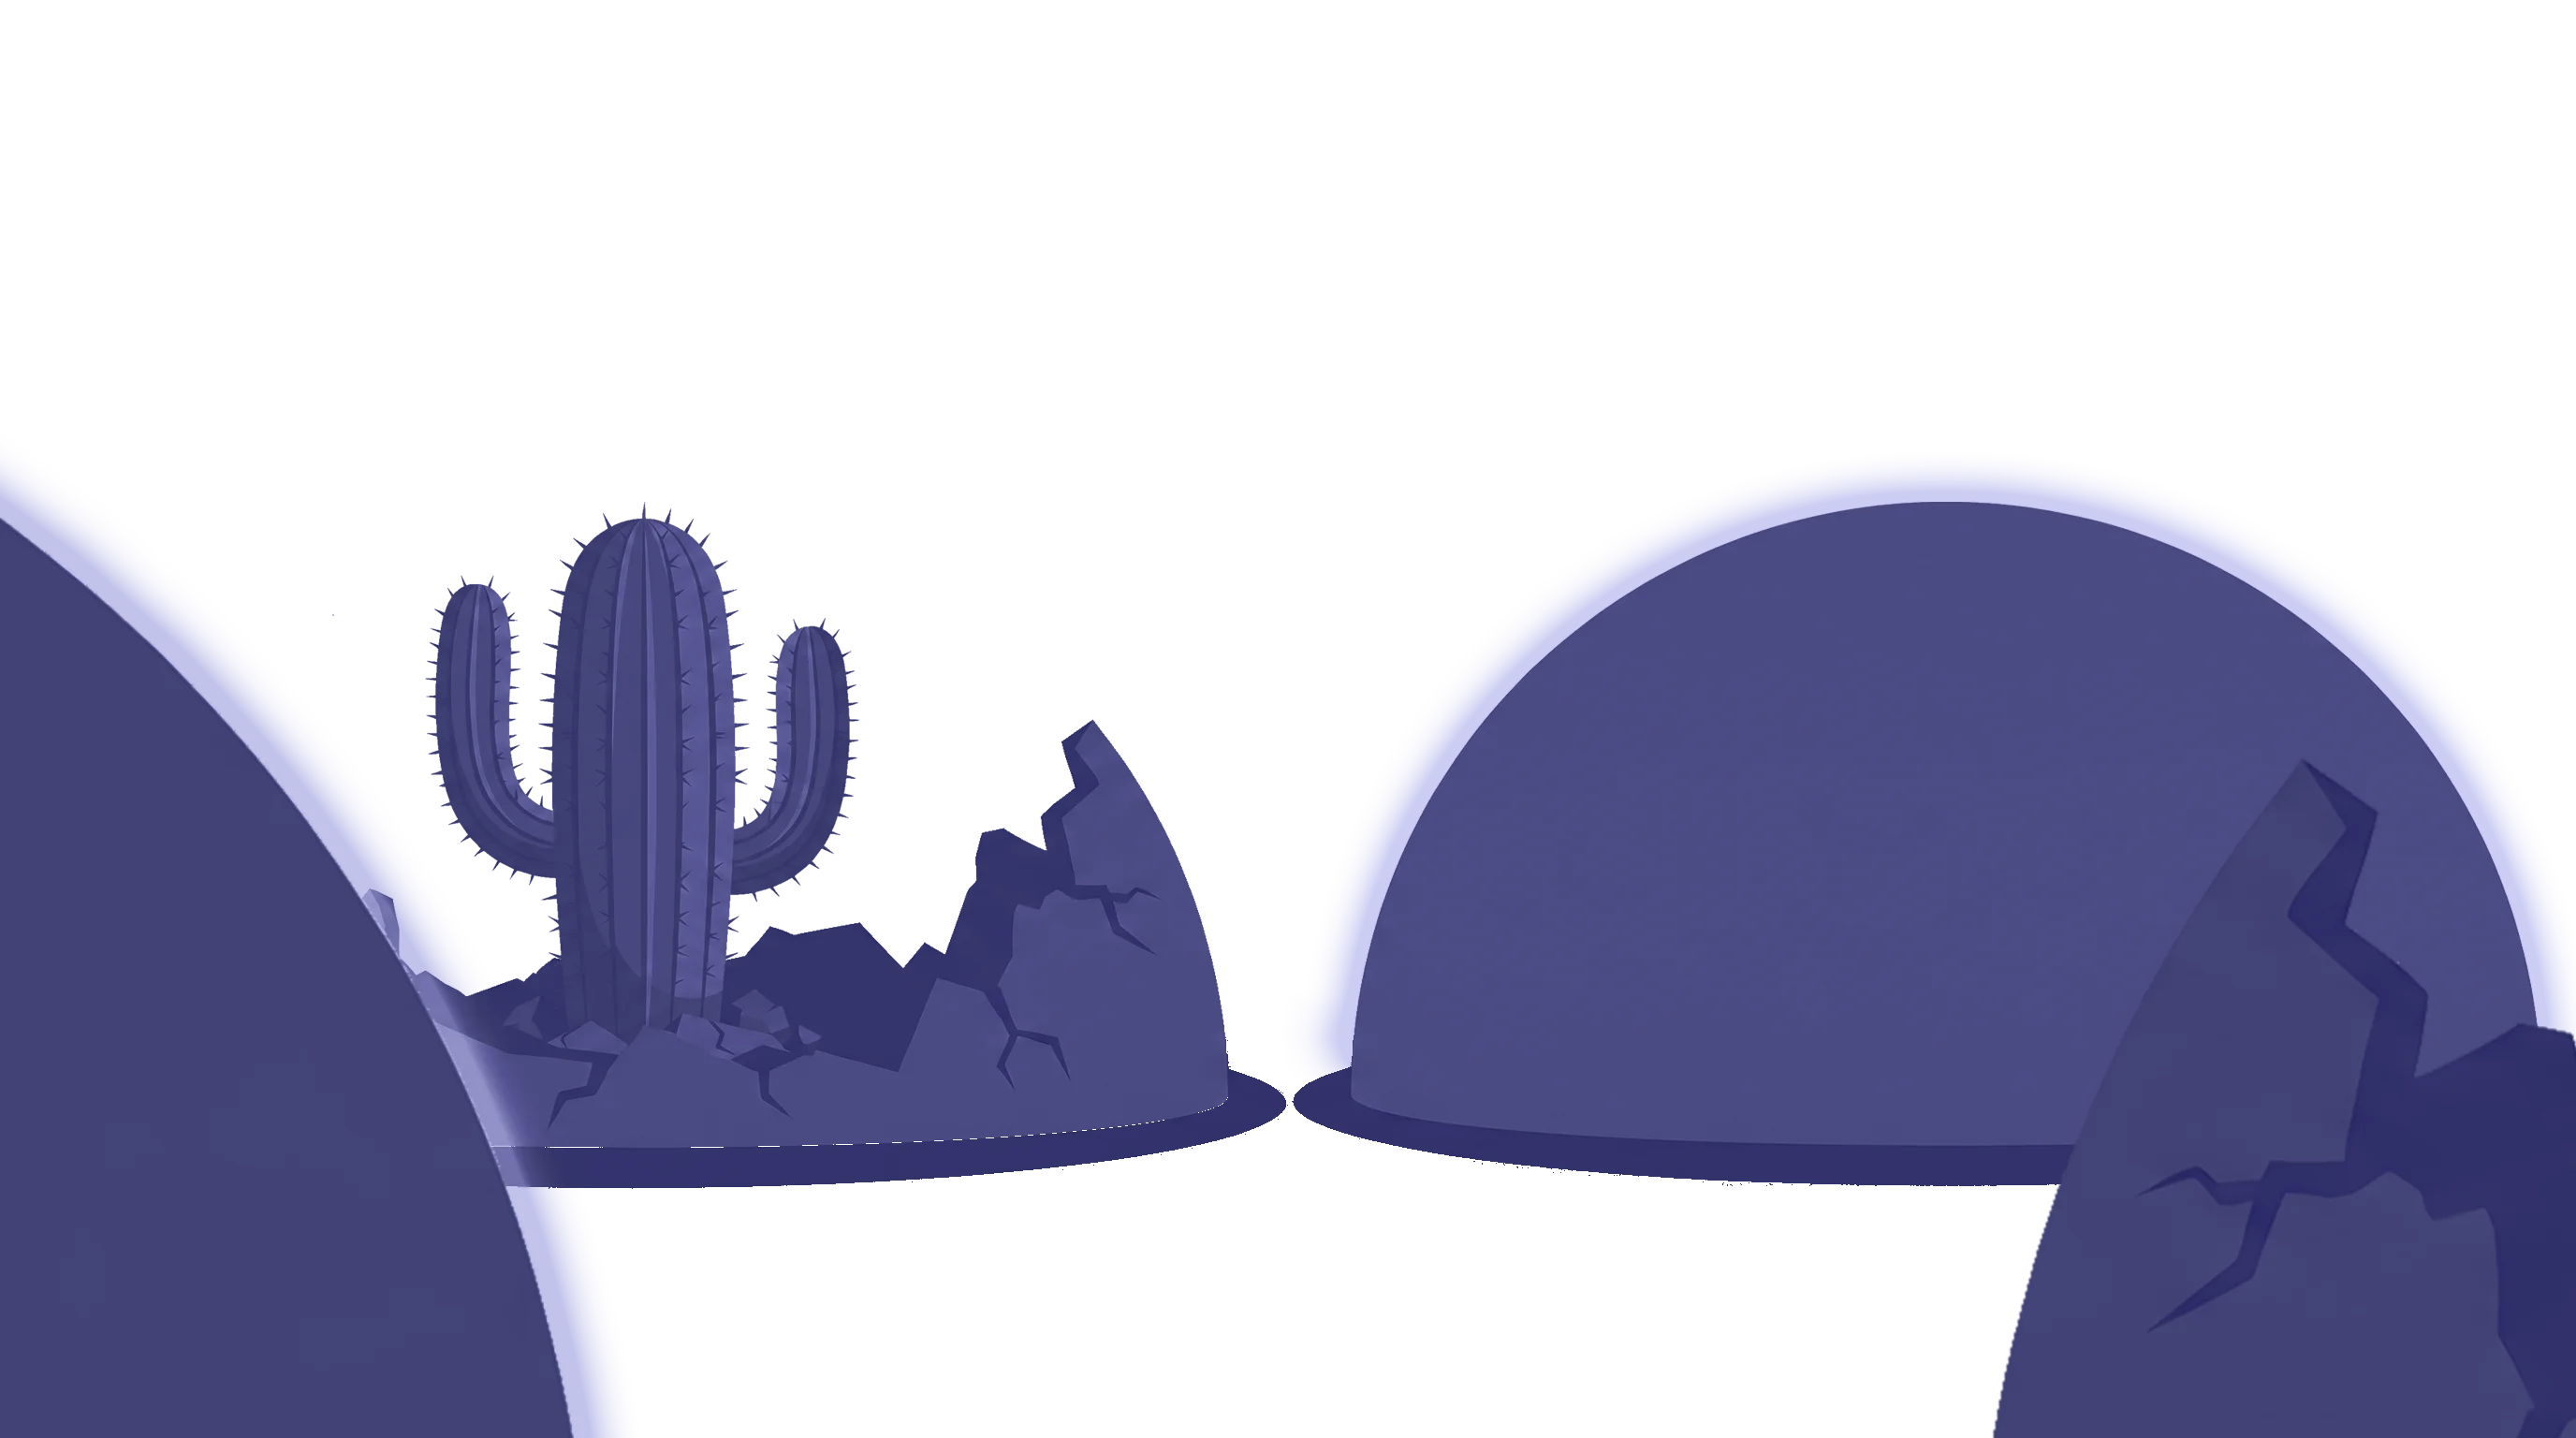
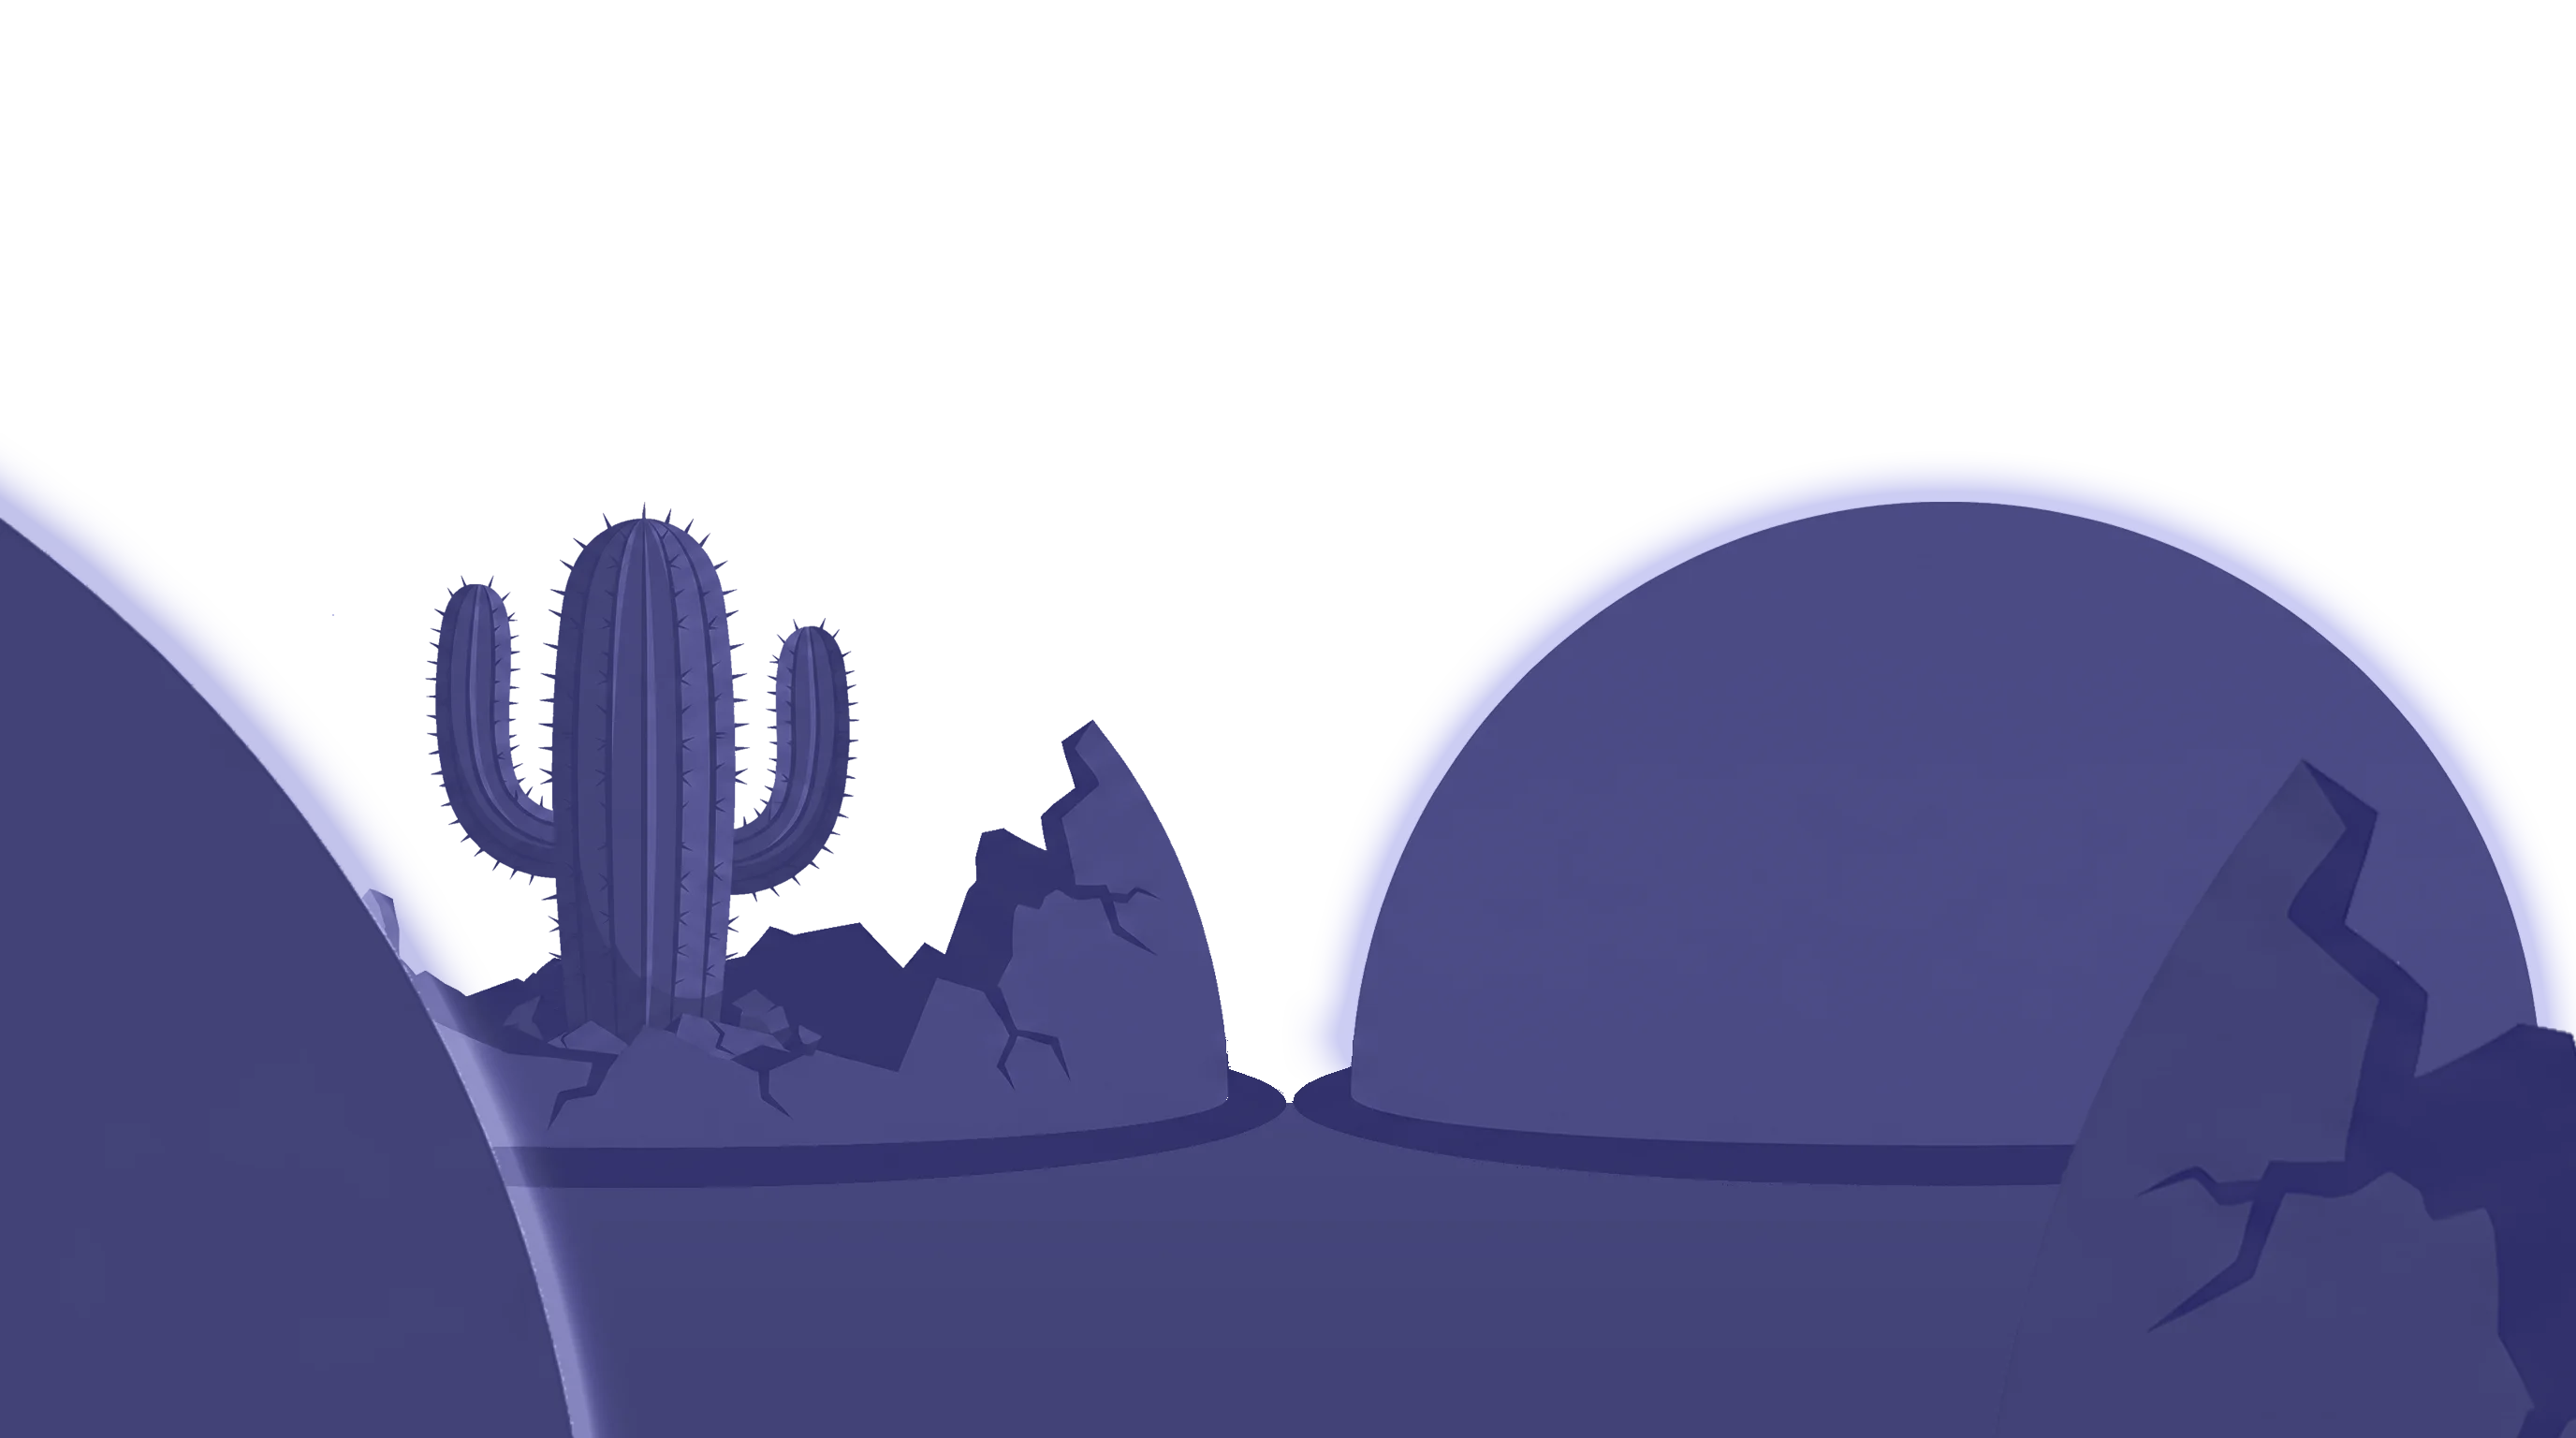
Refactor particle engine for High-DPI support, fix radial underglow clipping path, and optimize dispersion parameters

Changed region(s): [[0.1875, 0.7812, 0.8125, 1.0]]

diff --git a/js/sparkle.js b/js/sparkle.js
@@ -1,11 +1,22 @@
 class SparkleSystem {
-    constructor(canvasId) {
-        this.canvas = document.getElementById(canvasId);
+    constructor(canvasOrId) {
+        if (typeof canvasOrId === 'string') {
+            this.canvas = document.getElementById(canvasOrId);
+        } else {
+            this.canvas = canvasOrId;
+        }
         if (!this.canvas) return;
         this.ctx = this.canvas.getContext('2d');
         this.particles = [];
         this.lastTime = performance.now();
         
+        // Depth/Scale factor (defaults to 1.0, clamped to min 0.1 for safety)
+        this.depth = Math.max(0.1, this.canvas.dataset.depth ? parseFloat(this.canvas.dataset.depth) : 1.0);
+        
+        // Bubble boundary radius — override via data-radius="0.36" (fraction of screen height)
+        this.radiusNormalized = this.canvas.dataset.radius ? parseFloat(this.canvas.dataset.radius) : 0.0;
+        this.bubbleRadius = 0;
+
         // Spot colour — override via data-spot-color="r,g,b" (e.g. "255,100,200")
         // Default is glowing gold: 255,215,0
         this.spotColorRGB = this.canvas.dataset.spotColor || '255,215,0';
@@ -17,7 +28,14 @@ class SparkleSystem {
         this.originY = 0;
         
         this.spawnTimer = 0;
-        this.spawnRate = 0.05; // very fast spawn for a glowing halo
+        
+        // Scale spawn rate by depth (fewer particles spawned when further in the background)
+        const baseSpawnRate = this.canvas.dataset.spawnRate ? parseFloat(this.canvas.dataset.spawnRate) : 0.05;
+        this.spawnRate = baseSpawnRate / this.depth;
+
+        // Visual width/height (CSS pixels)
+        this.width = 0;
+        this.height = 0;
 
         this.resize();
         window.addEventListener('resize', () => this.resize());
@@ -46,10 +64,17 @@ class SparkleSystem {
     }
 
     resize() {
+        const dpr = window.devicePixelRatio || 1;
         const w = this.canvas.clientWidth || window.innerWidth;
         const h = this.canvas.clientHeight || window.innerHeight;
-        this.canvas.width = w;
-        this.canvas.height = h;
+        
+        this.width = w;
+        this.height = h;
+        
+        this.canvas.width = w * dpr;
+        this.canvas.height = h * dpr;
+        
+        this.ctx.scale(dpr, dpr);
         
         const bounds = this.getCoverBounds(w, h);
         
@@ -58,44 +83,58 @@ class SparkleSystem {
         
         this.originX = bounds.x + (bounds.w * targetX);
         this.originY = bounds.y + (bounds.h * targetY);
+        
+        // Calculate bubble radius in pixels relative to viewport height bounds
+        this.bubbleRadius = bounds.h * this.radiusNormalized;
     }
 
     spawnParticle() {
         const angle = Math.random() * Math.PI * 2;
-        // Increase speed for a larger halo spread
-        const speed = (this.canvas.width * 0.01) + Math.random() * (this.canvas.width * 0.025);
+        
+        // Spawn right at the bubble's rim (with a tiny, soft organic jitter)
+        const spawnJitter = (Math.random() * 8 - 4) * this.depth;
+        const spawnDist = this.bubbleRadius + spawnJitter;
+        const startX = this.originX + Math.cos(angle) * spawnDist;
+        const startY = this.originY + Math.sin(angle) * spawnDist;
+
+        // Scale particle speed/velocity by depth
+        let speed = (this.width * 0.008) + Math.random() * (this.width * 0.02);
+        // Depth-based speed scaling is less aggressive so background particles stay dynamic
+        speed *= (0.6 + 0.4 * this.depth);
         
         // Interpolate within the spot color hue range
-        // For gold: R=255 fixed, G lerps 215→255, B lerps 0→200
-        // For custom colors: use the base color with slight brightness variation
         const t = Math.random();
         let r, g, b;
         if (this.spotColorRGB === '255,215,0') {
-            // Gold-specific behavior: warm shimmer
             r = 255;
             g = Math.floor(215 + t * 40);
             b = Math.floor(0   + t * 200);
         } else {
-            // Generic: slight brightness jitter on the spot color
             const jitter = 0.8 + t * 0.4; // 80%–120% brightness
             r = Math.min(255, Math.floor(this.spotR * jitter));
             g = Math.min(255, Math.floor(this.spotG * jitter));
             b = Math.min(255, Math.floor(this.spotB * jitter));
         }
         
-        const radius = Math.max(1, Math.random() * 3);
+        // Scale particle radius by depth - keeping them crisp, punchy, and visible (1.6px to 3.8px base)
+        const baseRadius = (Math.random() * 2.2 + 1.6);
+        const radius = Math.max(1.2, baseRadius * (0.6 + 0.4 * this.depth));
 
         this.particles.push({
-            x: this.originX,
-            y: this.originY,
+            x: startX,
+            y: startY,
             vx: Math.cos(angle) * speed,
             vy: Math.sin(angle) * speed,
             radius: radius,
             color: `rgb(${r}, ${g}, ${b})`,
             life: 0,
-            maxLife: 1.0 + Math.random() * 1.5,
+            maxLife: 1.5 + Math.random() * 2.0,
             opacity: 0,
-            maxOpacity: 0.5 + Math.random() * 0.5
+            // Keep particles bright and punchy
+            maxOpacity: 0.85 + Math.random() * 0.15,
+            // Sparkle frequencies for the shimmering effect
+            twinkleSpeed: 18 + Math.random() * 22,
+            phase: Math.random() * Math.PI * 2
         });
     }
 
@@ -103,44 +142,67 @@ class SparkleSystem {
         const deltaTime = (currentTime - this.lastTime) / 1000;
         this.lastTime = currentTime;
 
+        const dt = Math.min(deltaTime, 0.1);
+
+        // Clear the canvas taking High-DPI scaling into account
+        const dpr = window.devicePixelRatio || 1;
+        this.ctx.save();
+        this.ctx.setTransform(1, 0, 0, 1, 0, 0);
         this.ctx.clearRect(0, 0, this.canvas.width, this.canvas.height);
+        this.ctx.restore();
 
-        // Ambient sway base (so particles drift slightly)
-        const driftY = -this.canvas.height * 0.02;
+        // Ambient sway base (so particles drift slightly) scaled by depth
+        const driftY = -this.height * 0.016 * this.depth;
 
-        this.spawnTimer += deltaTime;
-        // Spawn multiple particles if deltaTime is large
+        this.spawnTimer += dt;
         while (this.spawnTimer >= this.spawnRate) {
             this.spawnParticle();
             this.spawnTimer -= this.spawnRate;
         }
 
-        // Draw an underglow at the origin
-        const glowRadius = this.canvas.width * 0.12;
-        const gradient = this.ctx.createRadialGradient(this.originX, this.originY, 0, this.originX, this.originY, glowRadius);
-        gradient.addColorStop(0, `rgba(${this.spotColorRGB}, 0.4)`);
-        gradient.addColorStop(1, `rgba(${this.spotColorRGB}, 0)`);
-        this.ctx.beginPath();
-        this.ctx.arc(this.originX, this.originY, glowRadius, 0, Math.PI * 2);
-        this.ctx.fillStyle = gradient;
-        this.ctx.fill();
-        this.ctx.closePath();
+        // Draw a backlit glow behind the bubble
+        const glowOffset = this.width * 0.08 * this.depth;
+        const glowRadius = this.bubbleRadius + glowOffset;
+        
+        if (glowRadius > this.bubbleRadius) {
+            const gradient = this.ctx.createRadialGradient(
+                this.originX, this.originY, this.bubbleRadius, 
+                this.originX, this.originY, glowRadius
+            );
+            gradient.addColorStop(0, `rgba(${this.spotColorRGB}, ${0.18 * this.depth})`);
+            gradient.addColorStop(1, `rgba(${this.spotColorRGB}, 0)`);
+            
+            this.ctx.beginPath();
+            // Outer circle (clockwise)
+            this.ctx.arc(this.originX, this.originY, glowRadius, 0, Math.PI * 2, false);
+            if (this.bubbleRadius > 0) {
+                // Inner circle (counter-clockwise) - punches a hole to keep bubble center transparent
+                this.ctx.moveTo(this.originX + this.bubbleRadius, this.originY);
+                this.ctx.arc(this.originX, this.originY, this.bubbleRadius, 0, Math.PI * 2, true);
+            }
+            this.ctx.closePath();
+            this.ctx.fillStyle = gradient;
+            this.ctx.fill();
+        }
+
+        // Turn off shadows for particles to render as 100% crisp anti-aliased points
+        this.ctx.shadowBlur = 0;
 
         for (let i = this.particles.length - 1; i >= 0; i--) {
             const p = this.particles[i];
             
-            p.life += deltaTime;
+            p.life += dt;
             if (p.life >= p.maxLife) {
                 this.particles.splice(i, 1);
                 continue;
             }
 
-            p.x += p.vx * deltaTime;
-            p.y += (p.vy + driftY) * deltaTime;
+            p.x += p.vx * dt;
+            p.y += (p.vy + driftY) * dt;
             
-            // Friction
-            p.vx *= 0.95;
-            p.vy *= 0.95;
+            // Lowered friction (0.99 instead of 0.982) allows embers to scatter much further and more organically
+            p.vx *= 0.99;
+            p.vy *= 0.99;
 
             // Fade in and out
             const lifeRatio = p.life / p.maxLife;
@@ -150,24 +212,37 @@ class SparkleSystem {
                 p.opacity = p.maxOpacity * (1 - ((lifeRatio - 0.2) / 0.8));
             }
 
+            // Rapid brightness oscillation for shimmering/sparkling
+            const twinkleSine = Math.sin((currentTime / 1000) * p.twinkleSpeed + p.phase);
+            const twinkleFactor = 0.4 + ((twinkleSine + 1) / 2) * 0.6;
+            const drawOpacity = p.opacity * twinkleFactor;
+
             this.ctx.beginPath();
             this.ctx.arc(p.x, p.y, p.radius, 0, Math.PI * 2);
-            this.ctx.fillStyle = p.color.replace('rgb', 'rgba').replace(')', `, ${p.opacity})`);
+            this.ctx.fillStyle = p.color.replace('rgb', 'rgba').replace(')', `, ${drawOpacity})`);
             this.ctx.fill();
             this.ctx.closePath();
-            
-            // Add a slight glowing halo to the particle itself
-            this.ctx.shadowBlur = 5;
-            this.ctx.shadowColor = p.color;
         }
         
-        // Reset shadow for next frame
-        this.ctx.shadowBlur = 0;
-
         requestAnimationFrame(this.animate);
     }
 }
 
+// Global initialization
 document.addEventListener('DOMContentLoaded', () => {
-    new SparkleSystem('sparkle-canvas');
+    // 1. Backwards compatibility for exact id 'sparkle-canvas' if not already handled
+    const oldCanvas = document.getElementById('sparkle-canvas');
+    if (oldCanvas && !oldCanvas.dataset.systemInitialized) {
+        oldCanvas.dataset.systemInitialized = 'true';
+        new SparkleSystem(oldCanvas);
+    }
+    
+    // 2. Class-based multi-canvas initialization
+    const canvases = document.querySelectorAll('canvas.sparkle, canvas.sparkle-layer');
+    canvases.forEach(c => {
+        if (!c.dataset.systemInitialized) {
+            c.dataset.systemInitialized = 'true';
+            new SparkleSystem(c);
+        }
+    });
 });

diff --git a/scenes/scene_4_33.html b/scenes/scene_4_33.html
@@ -22,9 +22,54 @@
 
         <!-- Camera effected layers -->
         <div class="parallax-camera">
-            <img src="../Images/scene_4_33/DCC_4_33_background.webp" class="layer background parallax-bg" alt="Background">            
+
+            <canvas class="layer sparkle parallax-bg" 
+                    style="z-index: 17;" 
+                    data-origin-x="0.185" 
+                    data-origin-y="0.44"
+                    data-radius="0.18"
+                    data-spot-color="255,140,0"
+                    data-depth="0.1">
+            </canvas>       
+            <canvas class="layer sparkle parallax-bg" 
+                    style="z-index: 18;" 
+                    data-origin-x="-0.02" 
+                    data-origin-y="0.55"
+                    data-radius="0.23"
+                    data-spot-color="255,140,0"
+                    data-depth="0.33">
+            </canvas>            
+            <canvas class="layer sparkle parallax-bg" 
+                    style="z-index: 19;" 
+                    data-origin-x="0.67" 
+                    data-origin-y="0.55"
+                    data-radius="0.23"
+                    data-spot-color="255,140,0"
+                    data-depth="0.33">
+            </canvas>
+            <img src="../Images/scene_4_33/DCC_4_33_background.webp" class="layer background parallax-bg" alt="Background">    
+            
+            <canvas class="layer sparkle parallax-mid" 
+                    style="z-index: 38;" 
+                    data-origin-x="0.76" 
+                    data-origin-y="0.77"
+                    data-radius="0.38"
+                    data-spot-color="255,140,0"
+                    data-depth="0.66">
+            </canvas>
+            <canvas class="layer sparkle parallax-mid" 
+                    style="z-index: 39;" 
+                    data-origin-x="-0.42" 
+                    data-origin-y="1.38"
+                    data-radius="1.19"
+                    data-spot-color="255,140,0"
+                    data-depth="0.99"
+                    data-spawn-rate="0.01">
+            </canvas>
+
             <img src="../Images/scene_4_33/DCC_4_33_midground.webp" class="layer midground parallax-mid" alt="Midground">
             <img src="../Images/scene_4_33/DCC_4_33_foreground.webp" class="layer foreground parallax-fg" alt="Foreground">
+            
 
             <img src="../Images/scene_4_33/DCC_4_33_carl.webp"
                  class="layer carl breathe parallax-fg"
@@ -39,6 +84,6 @@
     </div>
 
     <!-- Physics Engines -->
-     
+    <script src="../js/sparkle.js"></script>
 </body>
 </html>